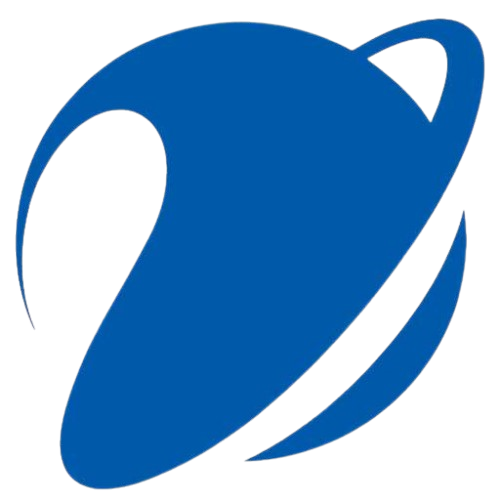
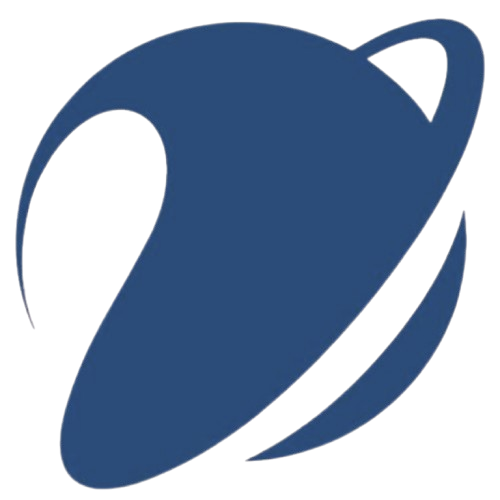
[update] docker file - env prod file - search main ui

diff --git a/src/pages/(base)/home/modules/Services/ServicesList.tsx b/src/pages/(base)/home/modules/Services/ServicesList.tsx
@@ -1,7 +1,6 @@
 import ServicesItem from "./ServicesItem"
 import ServiceHeading from "./ServiceHeading";
 import { Icon } from "@iconify/react";
-import { Input, Select } from "antd";
 import { GetSystemWebsByUser } from "@/service/api";
 import ServiceSkeleton from "./ServiceSkeleton";
 import AOS from "aos";
@@ -9,21 +8,26 @@ import "aos/dist/aos.css";
 
 const ServicesList = () => {
 
-  const { Search } = Input;
+  const [form] = AForm.useForm();
+
+  const defaultParams = {
+    MaxResultCount: 9999,
+    SkipCount: 0,
+    IsActive: true,
+    Keyword: "",
+  };
 
   const [isShowAll, setIsShowAll] = useState(
     JSON.parse(localStorage.getItem("isShowAll") || "false")
   );
   const [listSystem, setListSystem] = useState<any[]>([]);
   const [loading, setLoading] = useState(false);
-  const [searchParam, setSearchParam] = useState({});
+  const [searchParam, setSearchParam] = useState(defaultParams);
 
-  const fetchListSystem = async () => {
+  const fetchListSystem = async (params: any) => {
     setLoading(true);
     try {
-      const apiParams = { MaxResultCount: 9999, SkipCount: 0, IsActive: true, Keyword: '', ...searchParam };
-
-      const res = await GetSystemWebsByUser(apiParams);
+      const res = await GetSystemWebsByUser(params);
       const data = res.data?.result || [];
 
       setListSystem(data);
@@ -37,7 +41,7 @@ const ServicesList = () => {
   };
 
   useEffect(() => {
-    fetchListSystem();
+    fetchListSystem(searchParam);
   }, [searchParam]);
 
   useEffect(() => {
@@ -52,6 +56,14 @@ const ServicesList = () => {
     console.log(`selected ${value}`);
   };
 
+  const search = () => {
+    const values = form.getFieldsValue();
+    setSearchParam({
+      ...defaultParams,
+      ...values,
+    });
+  };
+
   useEffect(() => {
     AOS.init({
       duration: 800,
@@ -63,65 +75,55 @@ const ServicesList = () => {
     <div
       className="px-3 md:px-10 pt-[20px] pb-[20px] grow-[1] relative z-10"
     >
-      <ARow gutter={[22, 22]}>
-
-        <ACol
-          lg={4}
-          md={12}
-          span={3}
-          className="mr-auto flex justify-start"
-          data-aos="fade-right"
-        >
-          <div className="flex items-center gap-4">
-            <ButtonIcon
-              triggerParent
-              className="px-6px text-2xl border-[1px] border-[#e0e0e0] h-32px bg-white dark:bg-[#1c1c1c]"
-              icon={isShowAll ? "circum:grid-4-1" : 'circum:grid-3-2'}
-              tooltipContent={isShowAll ? 'Chế độ xem tất cả' : 'Chế độ xem theo loại'}
-              tooltipPlacement="top"
-              onClick={handleToggleShowAll}
-            />
-          </div>
-        </ACol>
-        {/* <ACol
-          lg={4}
-          md={12}
-          span={24}
-          data-aos="fade-left"
-        >
-          <Select
-            className="w-full"
+      <ARow align="middle" className="items-center flex-nowrap md:flex-wrap gap-[10px] md:gap-[22px]">
+        {/* Form nằm giữa */}
+        <ACol flex="auto" className="flex justify-center" data-aos="fade-up" data-aos-delay="100">
+          <AForm
+            form={form}
+            initialValues={searchParam}
+            labelCol={{ md: 7, span: 5 }}
             size="middle"
-            showSearch
-            placeholder="Chọn loại dịch vụ"
-            optionFilterProp="label"
-            onChange={onChange}
-            options={[
-              {
-                value: 'Y tế',
-                label: 'Y tế',
-              },
-              {
-                value: 'Giáo dục',
-                label: 'Giáo dục',
-              },
-              {
-                value: 'Khác',
-                label: 'Khác',
-              },
-            ]}
+            onFinish={search}
+            className="form-custom bg-white dark:bg-[#111826] w-full lg:w-[620px] border dark:border-[#37415180] md:border-none"
+          >
+            <ARow wrap gutter={[8, 16]} className="justify-between">
+              <ACol lg={19} md={18} sm={16} span={16}>
+                <div className="flex items-center gap-3 w-full">
+                  <AForm.Item className="m-0 w-full" label="" name="Keyword">
+                    <AInput
+                      allowClear
+                      placeholder="Tìm kiếm nhanh..."
+                      className="text-primary dark:text-white"
+                      prefix={<Icon fontSize={20} icon="lucide:search" className="text-primary dark:text-white mr-2" />}
+                    />
+                  </AForm.Item>
+                </div>
+              </ACol>
+
+              <ACol lg={5} md={6} span={8}>
+                <AFlex className="w-full" gap={16} justify="flex-end">
+                  <AButton className="border-none bg-[#dbeafe] dark:bg-[#1f3456] text-primary dark:text-[#ffffffe6] font-medium w-full rounded-[24px] !shadow-none" type="primary" onClick={search} loading={loading}>
+                    Tìm kiếm
+                  </AButton>
+                </AFlex>
+              </ACol>
+            </ARow>
+          </AForm>
+        </ACol>
+
+        {/* Toggle Button sát lề phải */}
+        <ACol flex="none" className="flex justify-end" data-aos="fade-up-left" data-aos-delay="200">
+          <ButtonIcon
+            triggerParent
+            className="w-[40px] h-[40px] px-6px text-2xl border-[1px] border-[#e0e0e0] dark:border-gray-700/50 bg-white dark:bg-[#1f3456]"
+            icon={isShowAll ? 'circum:grid-3-2' : 'circum:grid-4-1' }
+            tooltipContent={isShowAll ? 'Chế độ xem theo loại' : 'Chế độ xem tất cả' }
+            tooltipPlacement="top"
+            onClick={handleToggleShowAll}
           />
-        </ACol> */}
-        <ACol
-          lg={6}
-          md={12}
-          span={21}
-          data-aos="fade-left"
-          data-aos-delay="100"
-        >
-          <Search className="w-full" placeholder="Tìm kiếm nhanh" allowClear enterButton={<Icon icon={'ant-design:search-outlined'} fontSize={20} />} size="middle" onSearch={(value) => setSearchParam({ Keyword: value })} />
         </ACol>
       </ARow>
+
       {
         loading ?
           <ARow gutter={[22, 22]} className="mt-8">

diff --git a/src/styles/css/global.css b/src/styles/css/global.css
@@ -113,11 +113,13 @@ textarea.ant-input[disabled],
 @keyframes arrow-move {
   0% {
     transform: translateX(-50px) translateY(-50%);
-    opacity: 0.3; /* mặc định mờ */
+    opacity: 0.3;
+    /* mặc định mờ */
   }
 
   10% {
-    opacity: 1; /* sáng rõ khi bắt đầu chạy */
+    opacity: 1;
+    /* sáng rõ khi bắt đầu chạy */
   }
 
   60% {
@@ -127,7 +129,8 @@ textarea.ant-input[disabled],
 
   100% {
     transform: translateX(300px) translateY(-50%);
-    opacity: 0.3; /* trở lại mờ */
+    opacity: 0.3;
+    /* trở lại mờ */
   }
 }
 
@@ -201,6 +204,47 @@ textarea.ant-input[disabled],
   font-size: 12px;
 }
 
+/* .search-custom .ant-input-affix-wrapper {
+  border-radius: 24px !important;
+} */
+
+.form-custom {
+  padding: 6px;
+  border-radius: 24px;
+  box-shadow:
+    rgba(0, 0, 0, 0.1) 0px 1px 3px 0px,
+    rgba(0, 0, 0, 0.06) 0px 1px 2px 0px;
+}
+
+.form-custom .ant-form-item {
+  margin-bottom: 0px;
+}
+
+.form-custom .ant-input-affix-wrapper {
+  border: none;
+  box-shadow: none !important;
+  height: 36px;
+  background-color: transparent;
+}
+
+.form-custom button {
+  height: 36px;
+  font-weight: 700;
+}
+
+.form-custom input {
+  font-weight: 500;
+}
+
+.form-custom .ant-form-item-control-input-content {
+  background-color: transparent;
+}
+
+.form-custom input::placeholder {
+  color: #a2a2a2;
+  font-weight: 400;
+}
+
 @media screen and (max-width: 991px) {
   .ant-table-cell {
     white-space: nowrap;
@@ -247,5 +291,14 @@ textarea.ant-input[disabled],
   .table-custom .ant-card-head-wrapper .ant-card-extra > .ant-space button,
   .table-custom .ant-card-head-wrapper .ant-card-extra > .ant-space .ant-space-item {
     width: 100%;
+  }
+
+  .form-custom button,
+  .form-custom .ant-input-affix-wrapper {
+    height: 32px;
+  }
+
+  .form-custom {
+    box-shadow: none;
   }
 }

diff --git a/src/layouts/modules/global-header/components/UserAvatar.tsx b/src/layouts/modules/global-header/components/UserAvatar.tsx
@@ -47,16 +47,6 @@ const UserAvatar = memo(() => {
   }
 
   const items: MenuProps['items'] = [
-    {
-      key: '2',
-      label: (
-        <div className="flex-center gap-8px">
-          <Icon icon="solar:user-linear" fontSize={16} />
-          Tài khoản
-        </div>
-      ),
-    },
-    { type: 'divider' as const },
     ...(isSuper
       ? [
         {
@@ -71,6 +61,16 @@ const UserAvatar = memo(() => {
         { type: 'divider' as const },
       ]
       : []),
+    {
+      key: '2',
+      label: (
+        <div className="flex-center gap-8px">
+          <Icon icon="solar:user-linear" fontSize={16} />
+          Tài khoản
+        </div>
+      ),
+    },
+    { type: 'divider' as const },
     {
       key: '1',
       label: (
@@ -92,7 +92,7 @@ const UserAvatar = memo(() => {
         <div>
           <ButtonIcon className="px-12px">
             <img src={vnpt} alt="vnpt" className="w-28px h-28px rounded-full border border-primary" />
-            <span className="text-15px text-primary font-medium capitalize">{user?.name}</span>
+            <span className="text-15px text-primary dark:text-white font-medium capitalize">{user?.name}</span>
           </ButtonIcon>
         </div>
       </ADropdown>

diff --git a/src/pages/loading.tsx b/src/pages/loading.tsx
@@ -36,14 +36,14 @@ const GlobalLoading = memo(() => {
           {loadingClasses.map(item => {
             return (
               <div
-                className={clsx('absolute w-16px h-16px bg-[#0059a9] rounded-8px animate-pulse ', item)}
+                className={clsx('absolute w-16px h-16px bg-primary rounded-8px animate-pulse ', item)}
                 key={item}
               />
             );
           })}
         </div>
       </div>
-      <h2 className="text-28px text-[#0059a9] font-500">{t('system.title')}</h2>
+      <h2 className="text-28px text-primary font-500">{t('system.title')}</h2>
     </div>
   );
 });

diff --git a/src/layouts/modules/GlobalLogo.tsx b/src/layouts/modules/GlobalLogo.tsx
@@ -19,7 +19,7 @@ const GlobalLogo: FC<Props> = memo(({ className, showTitle = true, ...props }) =
     >
       <SystemLogo className="mb-[1px] mr-1 h-auto w-[18px] text-32px text-primary dark:invert dark:brightness-0" />
       <h2
-        className="pl-4px text-16px text-[#0059a9] dark:text-white font-bold capitalize transition duration-300 ease-in-out"
+        className="pl-4px text-16px text-primary dark:text-white font-bold capitalize transition duration-300 ease-in-out"
         style={{ display: showTitle ? 'block' : 'none' }}
       >
         {t('system.title')}

diff --git a/src/layouts/modules/global-header/GlobalHeader.tsx b/src/layouts/modules/global-header/GlobalHeader.tsx
@@ -62,7 +62,11 @@ const GlobalHeader: FC<Props> = memo(({ isMobile, mode, reverse, siderWidth }) =
       )}
       <div>{reverse ? true : showMenuToggler}</div>
 
-      {pathname !== '/home' ? (showToggler && <MenuToggler />) : null}
+      {
+        pathname !== '/home' ?
+          (showToggler && <MenuToggler />) :
+          (isMobile && <SystemLogo className="size-22px" />)
+      }
 
       {/* <div
         className="h-full flex-y-center flex-1-hidden"

diff --git a/src/pages/(blank)/login/modules/Header.tsx b/src/pages/(blank)/login/modules/Header.tsx
@@ -14,7 +14,7 @@ const Header = memo(() => {
         <SystemLogo className="mb-1 mr-2 mt-2 h-36px w-36px text-primary lt-sm:h-48px lt-sm:w-48px" />
 
         <FlipText
-          className="text-28px text-[#0059a9] font-bold lt-sm:text-22px capitalize"
+          className="text-28px text-primary font-bold lt-sm:text-22px capitalize"
           word={t('system.title')}
         />
       </Space>

diff --git a/src/pages/(blank)/login/index.tsx b/src/pages/(blank)/login/index.tsx
@@ -76,7 +76,7 @@ const PwdLogin = () => {
 
   return (
     <>
-      <h3 className="text-18px text-primary font-medium">{t('page.login.pwdLogin.title')}</h3>
+      <h3 className="text-18px text-primary font-bold">{t('page.login.pwdLogin.title')}</h3>
       <AForm
         className="pt-24px"
         form={form}
